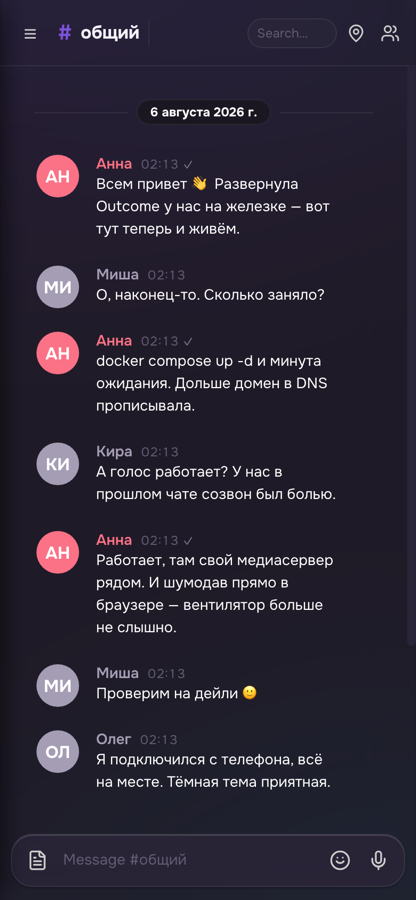
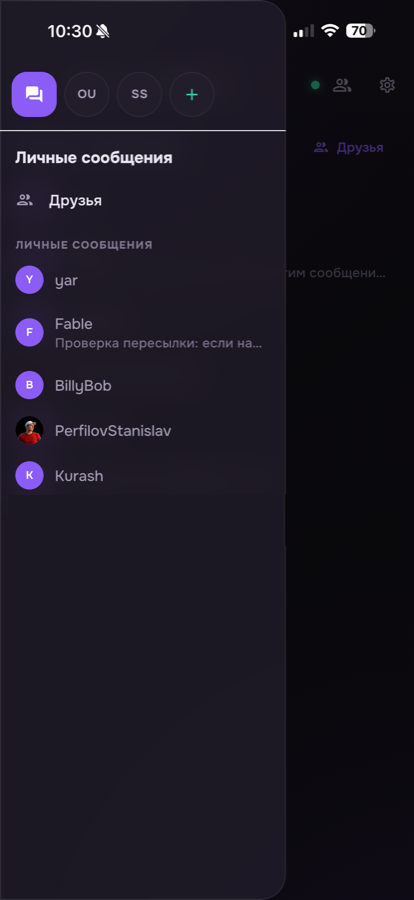
Screenshots from the real iOS app
Four from a phone rather than a simulator: sign-in, a channel with voice
messages and a reply, the direct-message drawer, and settings. Replaces the
pair that showed the web client at a narrow width.

One redaction: the drawer listed a conversation whose title was somebody's
personal e-mail address, and this README is public and indexed. Covered by
copying a clean patch of the same image over the row — a sampled fill came
out visibly lighter than the surface it sat on.

diff --git a/README.ru.md b/README.ru.md
@@ -21,8 +21,10 @@
   <img src="docs/images/admin.png" alt="Outcome — админ-консоль" width="445">
 </p>
 <p align="center">
-  <img src="docs/images/mobile-login.png" alt="Мобильный Outcome — вход" width="295">
-  <img src="docs/images/mobile-drawer.png" alt="Мобильный Outcome — каналы" width="295">
+  <img src="docs/images/mobile-login.png" alt="Outcome для iOS — вход" width="215">
+  <img src="docs/images/mobile-chat.png" alt="Outcome для iOS — канал" width="215">
+  <img src="docs/images/mobile-drawer.png" alt="Outcome для iOS — личные сообщения" width="215">
+  <img src="docs/images/mobile-settings.png" alt="Outcome для iOS — настройки" width="215">
 </p>
 
 ## Почему Outcome

diff --git a/README.md b/README.md
@@ -20,8 +20,10 @@ from source, and a working instance is one `docker compose up -d` away.
   <img src="docs/images/admin.png" alt="Outcome — admin console" width="445">
 </p>
 <p align="center">
-  <img src="docs/images/mobile-login.png" alt="Outcome mobile — login" width="295">
-  <img src="docs/images/mobile-drawer.png" alt="Outcome mobile — channels" width="295">
+  <img src="docs/images/mobile-login.png" alt="Outcome for iOS — sign in" width="215">
+  <img src="docs/images/mobile-chat.png" alt="Outcome for iOS — a channel" width="215">
+  <img src="docs/images/mobile-drawer.png" alt="Outcome for iOS — direct messages" width="215">
+  <img src="docs/images/mobile-settings.png" alt="Outcome for iOS — settings" width="215">
 </p>
 
 ## Why Outcome
